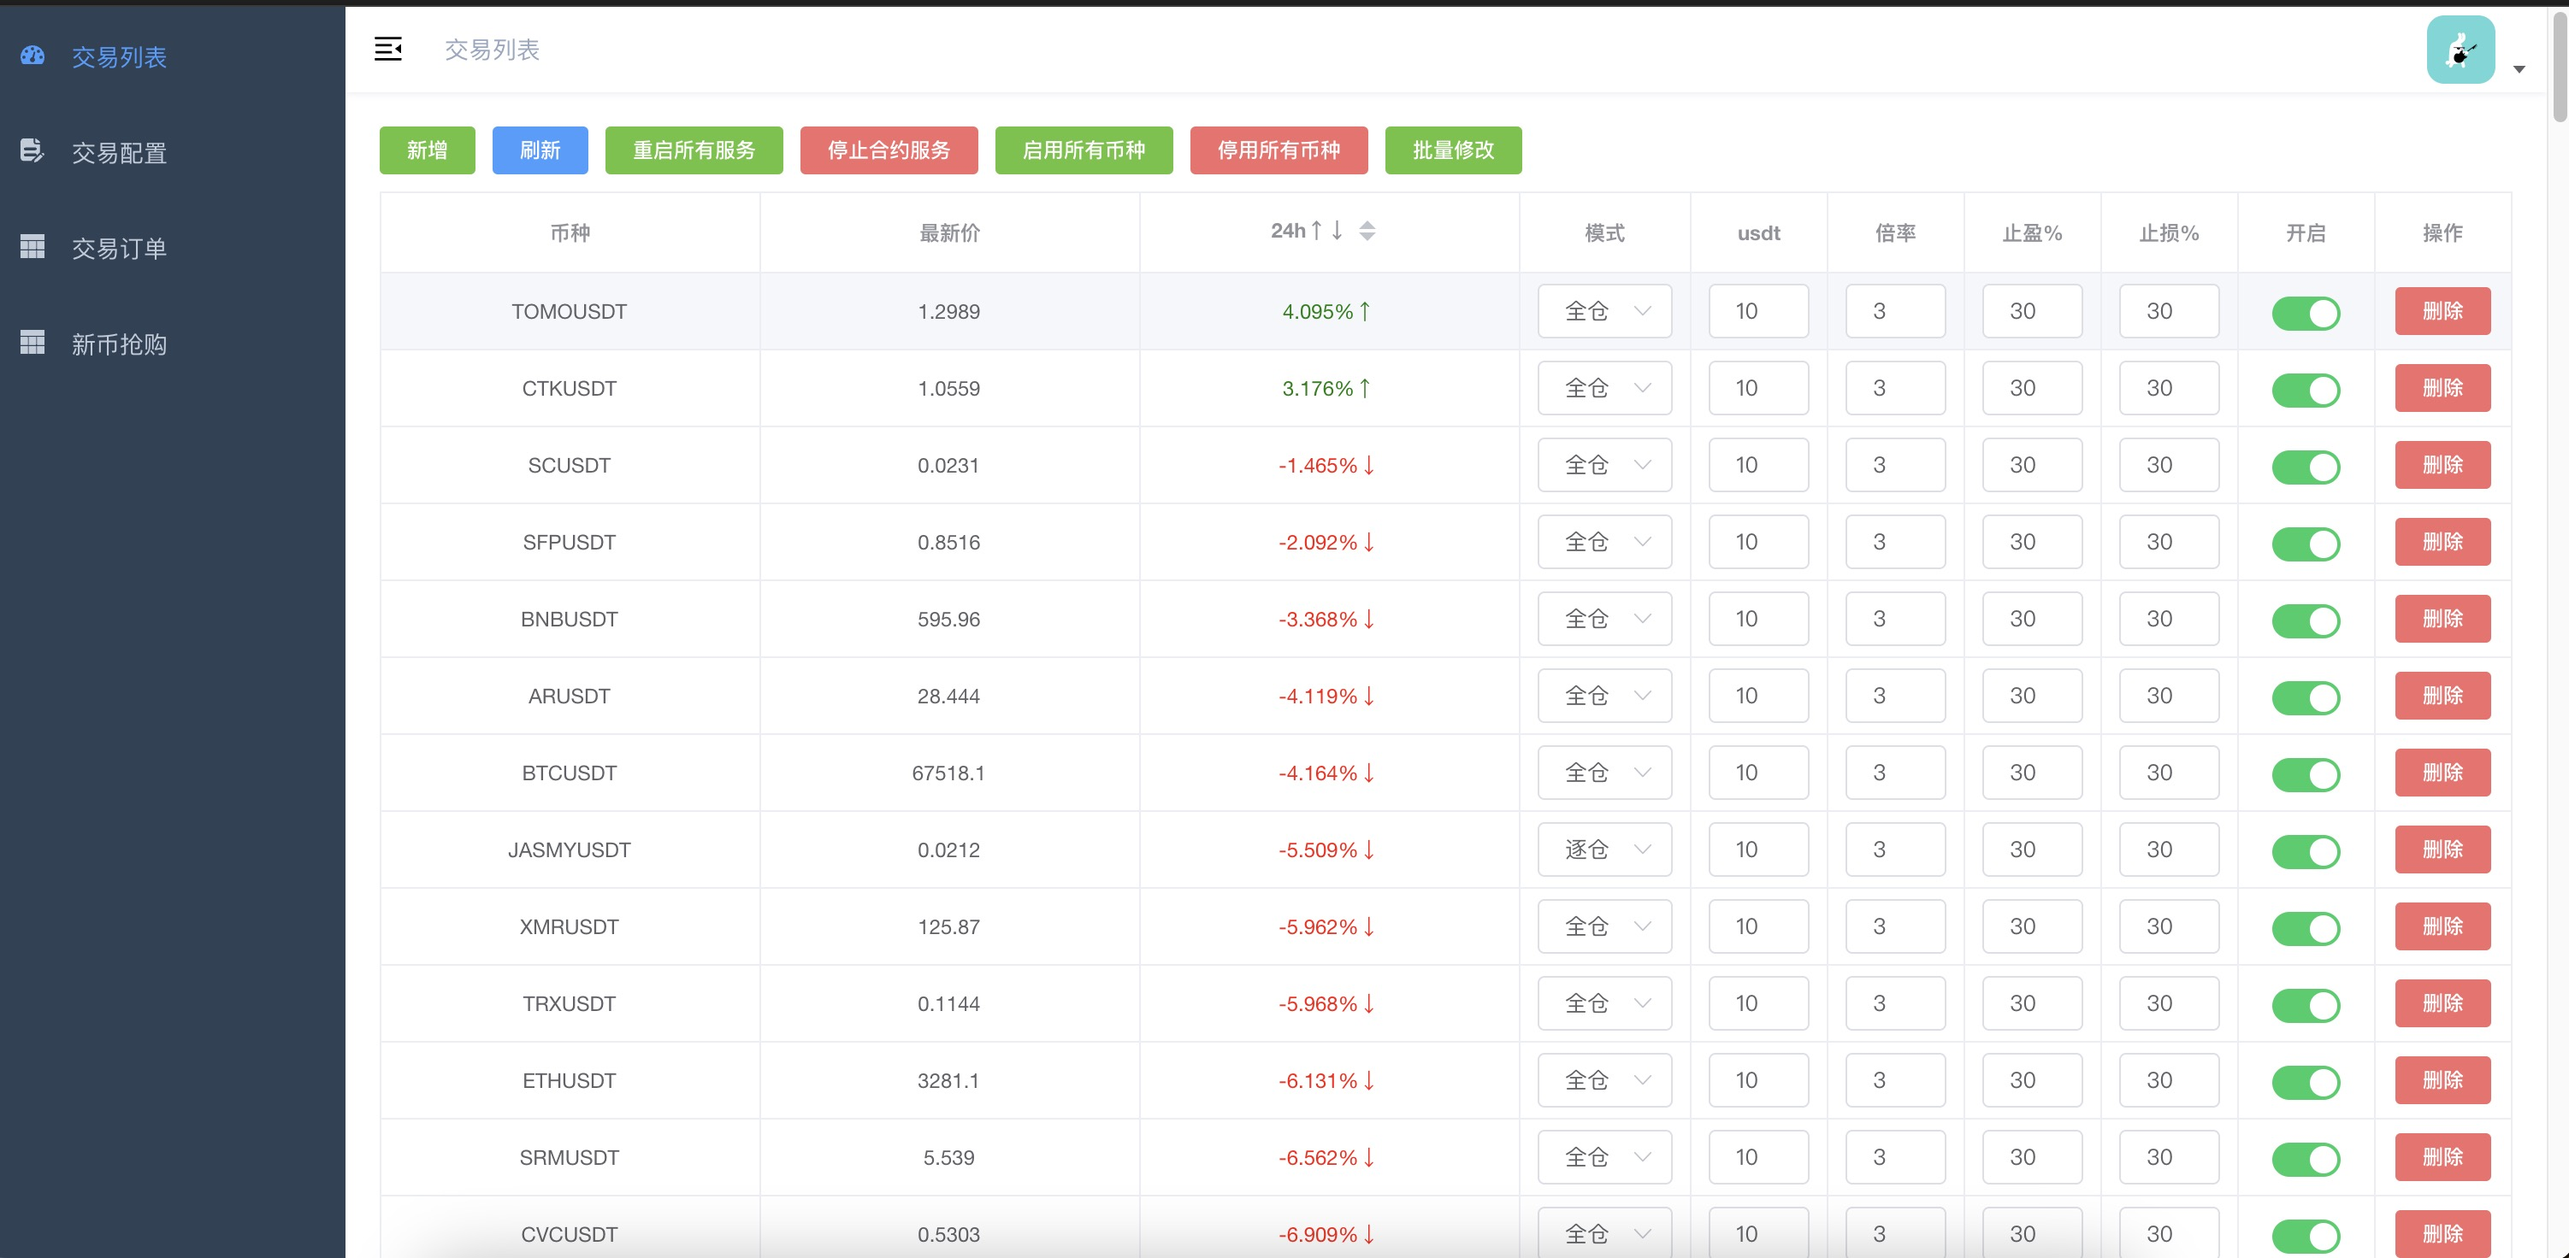
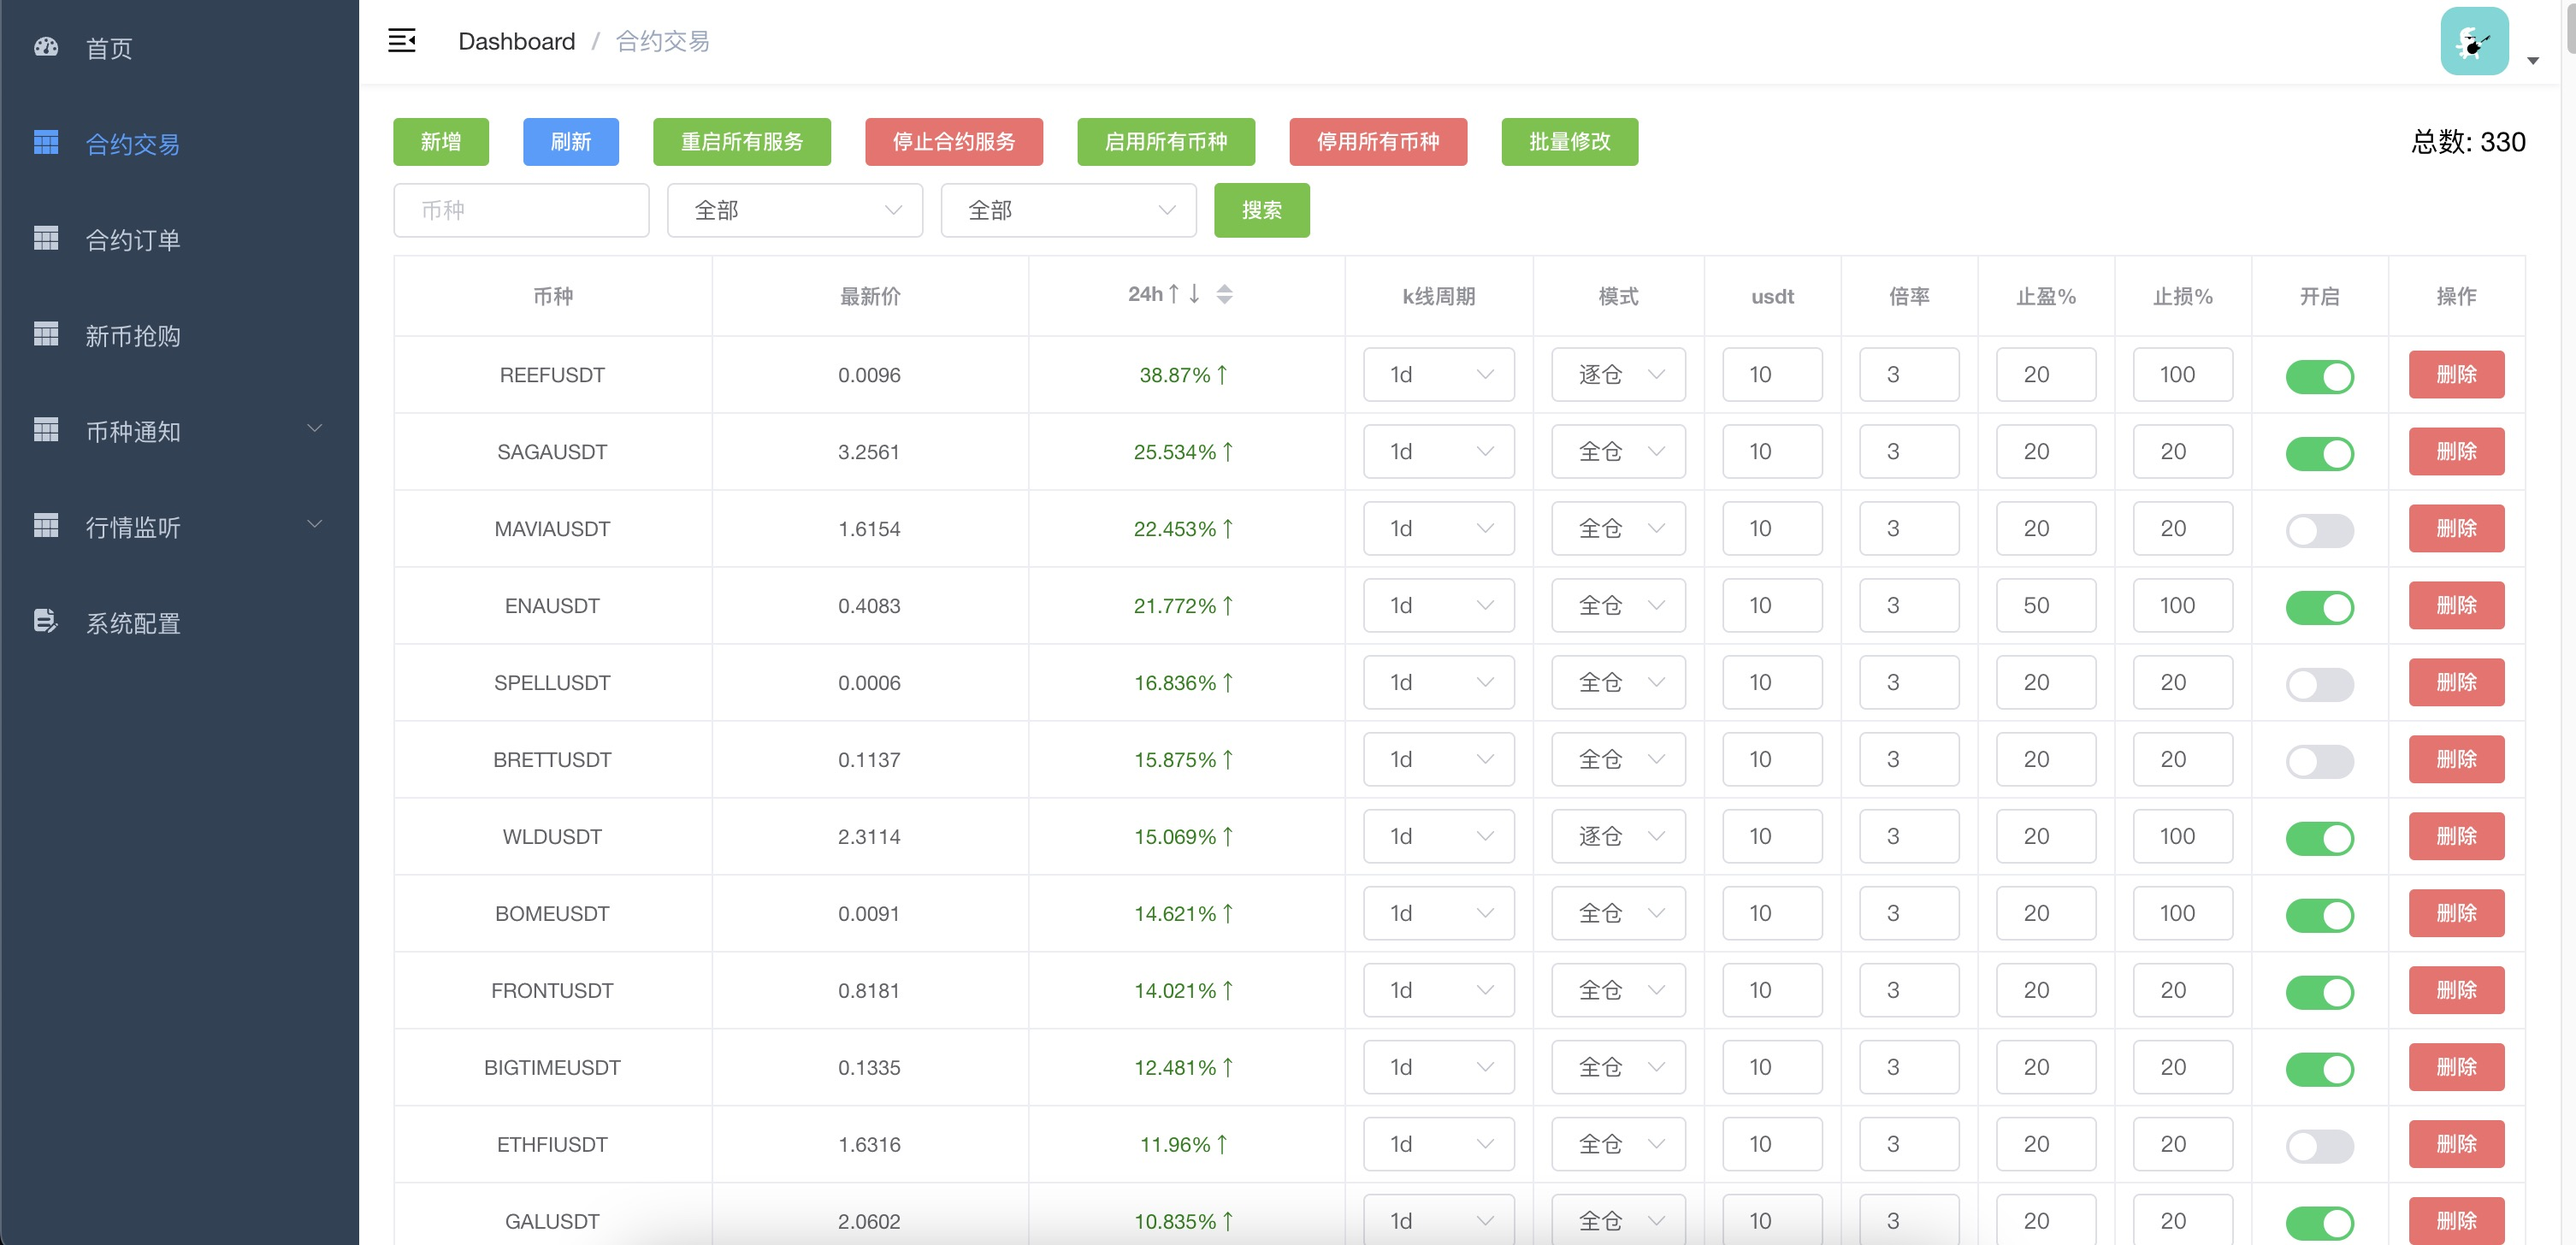
doc: update doc

diff --git a/README.md b/README.md
@@ -6,18 +6,14 @@
 
 ### 菜单和功能
 
-#### 交易列表
+#### 合约交易
 - 合约自动化交易的列表和配置
 - 支持每个币种的单独配置(合约模式,购买金额,合约倍率,是否开启)
 ![交易币种](./img/coins.jpg)
 ![钉钉推送1](./img/dingding.jpeg)
 
-#### 交易配置
-- 交易的基本相关的配置(conf)
-![交易配置](./img/config.jpg)
-
-#### 交易订单
-- 合约自动交易的订单历史(收益是预估与币安的实际收益会有稍微不同)
+#### 合约订单
+- 合约自动交易的订单历史(收益是根据下单预估的，没有查询币安的接口，与实际收益会有稍微不同)
 ![交易订单](./img/order.jpg)
 
 #### 新币抢购
@@ -27,29 +23,44 @@
 - 合约抢买做空
 ![新币抢购](./img/rush.jpg)
 
-#### 现货通知
+
+#### 币种通知
+##### 现货通知
 - 达到预设价格报警通知
 - 自动买入或卖出
 ![现货通知](./img/spot_notice.jpg)
 
-#### 合约通知
+##### 合约通知
 - 达到预设价格报警通知
 - 自动买入并自动挂止盈止损单
 ![合约通知](./img/feature_notice.jpg)
 
 
 #### 行情监听
+
+##### 现货监听
+- k线变化监听
+![现货监听](./img/listen_spot.jpg)
+
+##### 合约监听
 - k线变化监听
 - 肯纳特通道信号监听
+![合约监听](./img/listen_feature.jpg)
+![合约监听chart1](./img/listen_chat_kc.jpg)
+![合约监听通知1](./img/listen_dingding.jpg)
+
+#### 系统配置
+- 交易的基本相关的配置(conf)
+![交易配置](./img/config.jpg)
 
 ### 使用注意事项
-- 网络必须处于大陆之外(因为币安接口大陆正常无法访问), 已添加币安 api 的代理配置，如果有可用代理也可以正常使用
+- 网络必须处于大陆之外(因为币安接口大陆正常无法访问), 已添加币安 api 的代理配置(websocket 因为使用组件问题，暂无代理配置， websocket 只是用于后台更新合约币种最新价格)，如果有可用代理也可以正常使用
 - 申请api_key地址: [币安API管理页面](https://www.binance.com/cn/usercenter/settings/api-management)
-- 如果你的账号本身已经有合约仓位，请一定要在 `app.conf` 文件中配 `excludeSymbols`, 排出掉你不想使用本程序自动交易的币，否则默认所有的仓位都会根据交易策略规则自动平仓
+- 如果你的账号本身已经有合约仓位，请一定要在 `app.conf` 文件中配置 `excludeSymbols`, 排出掉你不想使用本程序自动交易的币，否则默认所有的仓位都会根据交易策略规则自动平仓
 - !!!注意修改app.conf配置后必须重新启动程序，否则配置不会生效!!!
-- 请保证账户有足够的 USDT
-- 钉钉推送 1min 中内不要超过 20 条，否则会被封 ip
-- 调整过大的参数可能会造成币安 api 请求频率超出限制，会禁用一段时间 ip
+- 请保证账户有足够的 USDT，否则下单会报错
+- 钉钉推送 1min 中内不要超过 20 条，否则会被封 ip 一段时间，无法推送成功
+- 调整过大的参数(例如同一个 ip 下使用多种组合功能)可能会造成币安 api 请求频率超出限制，会禁用一段时间 ip
 
 ### 相关技术指标函数
 >feature/strategy/line/technology.go
@@ -65,7 +76,7 @@ cp conf/app.conf.example conf/app.conf
 ```
 
 ##### 策略配置参数说明
-> 自动买卖的策略需要看代码自行分析，有好的思路这可以提供建议方案我来实现
+> 自动买卖的策略需要看代码自行分析，有好的思路可以提供建议方案我来实现
 
 ```
 [trade]
@@ -111,36 +122,41 @@ strategy_coin = coin5
 
 ### 新币抢购配置说明
 
-#### 币币抢买功能配置事例
+#### 币币抢买功能配置例子
 
 | 币种  |  买卖类型 | 类型  | usdt  |数量精度  | 开启  |
 | ------------ | ------------ | ------------ | ------------ | ------------ | ------------ |
 | ABCUSDT(切记带着USDT后缀)   | 买币  | 币币  | 10  |0.1(手动设定会减少一次api请求，不知道时设置为0会在上线时查询接口自动获取)   | 开启   |
 
-#### 币币挖矿抢卖功能配置事例
+#### 币币挖矿抢卖功能配置例子
 > ps: 如果挖矿的总价值小于5usdt，不能进行交易
 
 | 币种  |  买卖类型 | 类型  | 数量精度  | 卖出数量 | 开启  |
 | ------------ | ------------ | ------------ | ------------ | ------------ | ------------ |
 | ABCUSDT(切记带着USDT后缀)   | 卖币  | 币币  | 0.1(手动设定会减少一次api请求，不知道时设置为0会在上线时查询接口自动获取)   | 80(挖矿所得数量) |开启   |
 
-#### 合约抢买做多配置事例
+#### 合约抢买做多配置例子
 
 | 币种  |  买卖类型 | 类型  |模式| usdt|  倍率| 数量精度  |  开启  |
 | ------------ | ------------ | ------------ | ------------ | ------------ | ------------ |------------ | ------------ |
 | ABCUSDT(切记带着USDT后缀)   | 买币  | 合约  | 逐仓或全仓| 10|3 |0.1(手动设定会减少一次api请求，不知道时设置为0会在上线时查询接口自动获取)  |开启   |
 
-#### 合约抢买做空配置事例
+#### 合约抢买做空配置例子
 | 币种  |  买卖类型 | 类型  |模式| usdt|  倍率| 数量精度  |  开启  |
 | ------------ | ------------ | ------------ | ------------ | ------------ | ------------ |------------ | ------------ |
 | ABCUSDT(切记带着USDT后缀)   | 卖币  | 合约  | 逐仓或全仓| 10|3 |0.1(手动设定会减少一次api请求，不知道时设置为0会在上线时查询接口自动获取)  |开启   |
 
 
-
 ## 开发
 >安装最新版 golang
 
-### 安装bee
+## 配置文件
+
+```
+cp ./conf/app.conf.example app.conf
+```
+
+### 安装 bee
 > 记得将`GOPATH/bin`添加到环境变量`PATH`，否则 `bee` 命令无法全局使用
 > 使用 `go env GOPATH` 查看 `GOPATH` 路径
 
@@ -165,6 +181,8 @@ bee run
 ### 打包
 
 #### 打包到`windows`平台
+> 其它平台需要参考 bee 文档
+> 此项目的 github 的 workflows 实现了 linux amd64 和 window amd64 下的编译打包
 
 ```
 bee pack -be GOOS=windows
